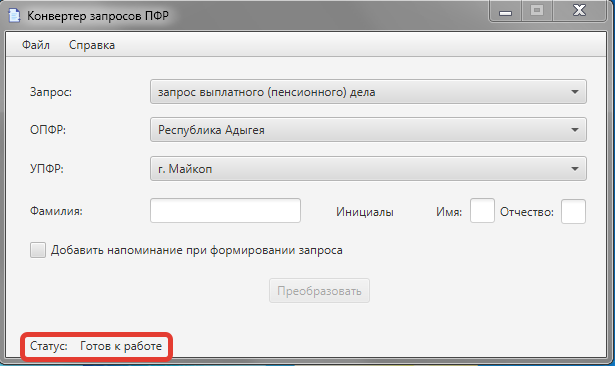
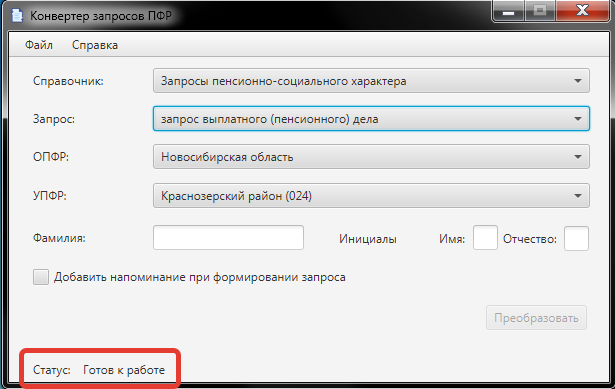
Реализована сортировка списков. В настройках реализовано скрытие введённых символов в поле ввода пароля. Исправлена и дополнена инструкция по работе с приложением.

Changed region(s): [[0.0, 0.0, 1.0, 1.0], [0.5252, 0.571, 0.6488, 0.6311], [0.4325, 0.7814, 0.587, 0.8415]]

diff --git a/src/main/resources/com/mycompany/requestconverter/html/help.html b/src/main/resources/com/mycompany/requestconverter/html/help.html
@@ -5,7 +5,7 @@ Click nbfs://nbhost/SystemFileSystem/Templates/Other/html.html to edit this temp
 -->
 <html>
     <head>
-        <title>Инструкция по работе с приложением "Конвертор запросов ПФР"</title>
+        <title>Инструкция по работе с приложением "Конвертер запросов ПФР"</title>
         <meta charset="utf-8">
         <meta name="viewport" content="width=device-width, initial-scale=1">
         <link href="../static/css/bootstrap.min.css" rel="stylesheet">
@@ -29,19 +29,29 @@ Click nbfs://nbhost/SystemFileSystem/Templates/Other/html.html to edit this temp
                 </div>
             </nav>
             <div class="content">
-            <h1 class="border-bottom border-5">Инструкция по работе с приложением "Конвертор запросов ПФР"</h1>
+            <h1 class="border-bottom border-5">Инструкция по работе с приложением "Конвертер запросов ПФР"</h1>
 
             <p>
-
                 Для начала работы с приложением проверьте статус о готовности к работе. Если указано, что требуется
                 обновить базу данных в появившемся диалоговом окне, нажмите "да". После изменения статуса на "готов к работе"
                 можете приступить к формированию запроса.
-
-
             </p>
+            
             <p class="fw-bold">
 
-                1. Выберите необходимые параметры запроса.
+                1. Выберите необходимый справочник запросов.
+
+            </p>
+            
+            <div class="col text-center">
+                <img src="../static/img/14.png" class="img-fluid rounded" alt="Главное окно приложения Конвертор запросов ПФР">
+
+
+            </div>
+            
+            <p class="fw-bold">
+
+                2. Выберите необходимые параметры запроса.
 
             </p>
 
@@ -55,7 +65,7 @@ Click nbfs://nbhost/SystemFileSystem/Templates/Other/html.html to edit this temp
 
             <p class="fw-bold">
 
-                2. Введите фамилию и иницалы человека в определённые поля ввода. После ввода фамилии и инициалов кнопка "Преобразовать" станет активной.
+                3. Введите фамилию и иницалы человека в определённые поля ввода. После ввода фамилии и инициалов кнопка "Преобразовать" станет активной.
 
             </p>
 
@@ -65,7 +75,7 @@ Click nbfs://nbhost/SystemFileSystem/Templates/Other/html.html to edit this temp
 
             <p class="fw-bold">
 
-                3. Если необходимо указать напоминание, установите флажок.
+                4. Если необходимо указать напоминание, установите флажок. Напоминание нужно для того, если запрос был сделан ранее и на него не было ответа.
 
             </p>
             <div class="col text-center">
@@ -74,7 +84,7 @@ Click nbfs://nbhost/SystemFileSystem/Templates/Other/html.html to edit this temp
 
             <p class="fw-bold">
 
-                4. Чтобы сформировать запрос нажмите на кнопку "Преобразовать".
+                5. Чтобы сформировать запрос нажмите на кнопку "Преобразовать".
 
             </p>
 
@@ -84,7 +94,7 @@ Click nbfs://nbhost/SystemFileSystem/Templates/Other/html.html to edit this temp
 
             <p class="fw-bold">
 
-                5. Откроется диалоговое окно "Выберите файл для конвертирования", в котором нужно выбрать необходимый файл для
+                6. Откроется диалоговое окно "Выберите файл для конвертирования", в котором нужно выбрать необходимый файл для
                 конвертирования. После чего нажмите кнопку "Открыть".
 
             </p>
@@ -95,7 +105,7 @@ Click nbfs://nbhost/SystemFileSystem/Templates/Other/html.html to edit this temp
 
             <p class="fw-bold">
 
-                6. Появится диалоговое окно "Выберите директорию куда сохранить файл", в котором нужно выбрать небходимую 
+                7. Появится диалоговое окно "Выберите директорию куда сохранить файл", в котором нужно выбрать небходимую 
                 директорию для сохранения сконвертированного запроса. Нажмите кнопку "Выбор папки".
 
             </p>
@@ -106,7 +116,7 @@ Click nbfs://nbhost/SystemFileSystem/Templates/Other/html.html to edit this temp
 
             <p class="fw-bold">
 
-                7. Появится сообщение о том, что ваш запрос успешно сконвертирован. Нажмите Ок.
+                8. Появится сообщение о том, что ваш запрос успешно сконвертирован. Нажмите Ок.
                 Ваш файл в формате "***.zip" появился в указанной директории.
 
 
@@ -116,8 +126,40 @@ Click nbfs://nbhost/SystemFileSystem/Templates/Other/html.html to edit this temp
                 <img src="../static/img/8.png" class="img-fluid rounded" alt="Главное окно приложения Конвертор запросов ПФР">
             </div>
 
-
-
+            <h1 class="faq text-center mt-3 border-bottom border-5">Формирование запросов в ДНР, ЛНР, Запорожскую и Херсонскую области</h1>
+            
+             <p>
+                Для того, чтобы сформировать запросы в ДНР, ЛНР, Запорожскую и Херсонскую области нужно:
+            </p>
+            <br><!-- comment -->
+             <p class="fw-bold">
+                1. Выбрать необходимый справочник.
+            </p>
+            
+            <div class="col mt-3 text-center">
+                <img src="../static/img/15.png" class="img-fluid rounded" alt="Главное окно приложения Конвертор запросов ПФР">
+            </div>
+            
+            <p class="fw-bold">
+                2. Выбрать ОПФР выступающее посредником и такое же значение выбрать в списке УПФР. После этого в интерфейсе приложения появится список с выбором суффикса вышеуказанных регионов.
+            </p>
+            
+            <div class="col mt-3 text-center">
+                <img src="../static/img/16.png" class="img-fluid rounded" alt="Главное окно приложения Конвертор запросов ПФР">
+            </div>
+            
+            <p class="fw-bold">
+                3. Заполните поля ФИО и укажите необходимый суффикс региона. После чего нажмите "Преобразовать".
+            </p>
+            
+            <div class="col mt-3 text-center">
+                <img src="../static/img/17.png" class="img-fluid rounded" alt="Главное окно приложения Конвертор запросов ПФР">
+            </div>
+            
+            <p class="fw-bold">
+                4. Далее повторите пункты 6, 7 раздела инструкции по работе с приложением "Конвертер запросов ПФР". После чего файл с именем "*******.zip" появится в указанной вами директории.
+            </p>
+            
 
             <h1 class="faq text-center mt-3 border-bottom border-5">Вопросы и ответы. FAQ</h1>
 
@@ -154,7 +196,7 @@ Click nbfs://nbhost/SystemFileSystem/Templates/Other/html.html to edit this temp
 
             <p class="fw-bold">
                 3. В статусе указано "Отсутствует подключение к базе данных", значит то, что корректность кодов запросов не гарантируется. 
-                Обратитесь к администратору баз данных для решения этой проблемы.
+                Для решения этой проблемы обратитесь к сотруднику, ответственному за работу приложения в вашем подразделении.
 
             </p>
 

diff --git a/src/main/java/com/mycompany/requestconverter/PrimaryController.java b/src/main/java/com/mycompany/requestconverter/PrimaryController.java
@@ -55,6 +55,7 @@ import javafx.scene.control.Label;
 import javafx.scene.control.Menu;
 import javafx.scene.control.MenuBar;
 import javafx.scene.control.MenuItem;
+import javafx.scene.control.PasswordField;
 import javafx.scene.control.TextField;
 import javafx.scene.input.KeyCode;
 import javafx.scene.input.KeyEvent;
@@ -266,7 +267,7 @@ public class PrimaryController {
         recordsSpr = spr.getRecordsFromLocal();
        
         opfrListSpr = CustomListManipulation.getOpfr(recordsSpr);
-        oListSpr = FXCollections.observableArrayList(opfrListSpr.stream().map(e -> e.getName()).collect(Collectors.toList()));
+        oListSpr = FXCollections.observableArrayList(opfrListSpr.stream().map(e -> e.getName()).sorted((o1, o2) -> o1.compareTo(o2)).collect(Collectors.toList()));
         
         sprValueList = FXCollections.observableArrayList(Spr.getSPR().values());
         sprValue.setItems(sprValueList);
@@ -372,7 +373,7 @@ public class PrimaryController {
             if (t1.contains(sprValueList.get(1))) {
                 recordsSprVd = sprVd.getRecordsFromLocal();
                 opfrListSpr = CustomListManipulation.getOpfr(recordsSprVd);
-                oListSpr = FXCollections.observableArrayList(opfrListSpr.stream().map(e -> e.getName()).collect(Collectors.toList()));
+                oListSpr = FXCollections.observableArrayList(opfrListSpr.stream().map(e -> e.getName()).sorted((o1, o2) -> o1.compareTo(o2)).collect(Collectors.toList()));
                 //opfr.getItems().addAll(oListSprVd);
                 opfr.setItems(oListSpr);
                 
@@ -429,11 +430,9 @@ public class PrimaryController {
                     String element2;
                     if (null != opfr.getSelectionModel().getSelectedItem()) {
                         element2 = opfr.getSelectionModel().getSelectedItem();
-
                     } else {
                         element2 = opfr.getItems().get(0);
                     }
-
                     // получение списка упфр при смене элемента в choicebox ОПФР
                     List<Record> target = CustomListManipulation.getUpfrList(recordsSpr, element2);
                     ObservableList<String> upfrList2 = null;
@@ -489,7 +488,8 @@ public class PrimaryController {
         Label labelUsername = new Label("Имя пользователя");
         TextField fieldUsername = new TextField();
         Label labelPassword = new Label("Пароль");
-        TextField fieldPassword = new TextField();
+        PasswordField fieldPassword = new PasswordField();
+       
         fieldUrl.setText(settings.getUrl());
         fieldDataBaseName.setText(settings.getDbName());
         fieldUsername.setText(settings.getUsername());
@@ -704,7 +704,7 @@ public class PrimaryController {
     @FXML
     void instruction(ActionEvent event) {
         Stage stage = new Stage();
-        stage.setTitle("Инструкция по работе с приложением \"Конвертор запросов ПФР\"");
+        stage.setTitle("Инструкция по работе с приложением \"Конвертер запросов ПФР\"");
         WebView webView = new WebView();
         WebEngine webEngine = webView.getEngine();
         webEngine.load(getClass().getResource("/com/mycompany/requestconverter/html/help.html").toExternalForm());
@@ -727,7 +727,7 @@ public class PrimaryController {
         dialog.setHeaderText(null);
         TextFlow textFlow = new TextFlow();
         VBox vBox = new VBox();
-        Text name = new Text("Конвертор запросов ПФР");
+        Text name = new Text("Конвертер запросов ПФР");
         Text author = new Text("Разработка: Аликин Олег Сергеевич");
         Text info = new Text("Отдел эксплуатации и сопровождения информационных подсистем");
         Text email = new Text("email: alikino@31.sfr.gov.ru");
